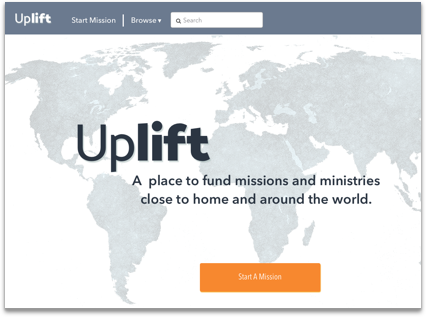
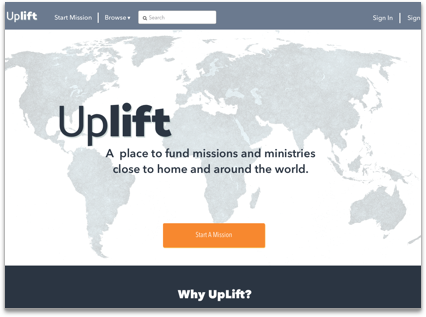
Portfolio git commit -m Portfolio

diff --git a/uplift_case_study.html b/uplift_case_study.html
@@ -249,10 +249,33 @@
                     <h2>User Testing</h2>
                   </div>
                   <p>As I created the prototypes and went through usability testing, I found
-                    that users liked the font, the name and logo. Generally, people seemed
-                    to say that it was fairly simple and easy to use. Some test participants
-                    were confused about all the website could do, which points to a need to
-                    have a detailed FAQ section for new and potential users. <p>
+                    that users liked the concept, A fundraising site aimed at missions was
+                    a unique approach. Some test participants took a little bit to figure out
+                    what the site was for, so I moved up the tagline so users see that right away.
+                    Also on the donation page, I added a progress tracker so that the user can
+                    where they are in the process. This performed well in user testing. On the homepage in
+                    the under Why Uplift? section, users asked for more details, so I added information.
+
+                    </select>
+                    </p>
+
+                    </optgroup> <p>
+                    </div>
+                    <div class="gallery">
+                      <div class="gallery-row">
+                        <div class="gallery-column">
+                          <img src= "images/uplift_testing_1.png"/>
+                          <div class="image-text">
+                            <p>Donation Page</p>
+                          </div>
+                        </div>
+                        <div class="gallery-column">
+                          <img src= "images/uplift_testing_2.png"/>
+                          <div class="image-text">
+                            <p>Donation Page with Progress Tracker</p>
+                          </div>
+                        </div>
+                      </div>
                     </div>
                   </div>
                 </div>

diff --git a/styles/uplift_case_study.css b/styles/uplift_case_study.css
@@ -33,6 +33,7 @@
 }
 
 .gallery-column1{
+  margin-top: 1rem;
   float: left;
   display: inline;
   margin-bottom: 20px;
@@ -46,7 +47,8 @@
 }
 
 .gallery-column2{
-  float:right;
+  margin-top: 1rem;
+  float: right;
   display: inline;
   margin-bottom: 20px;
   width: auto;
